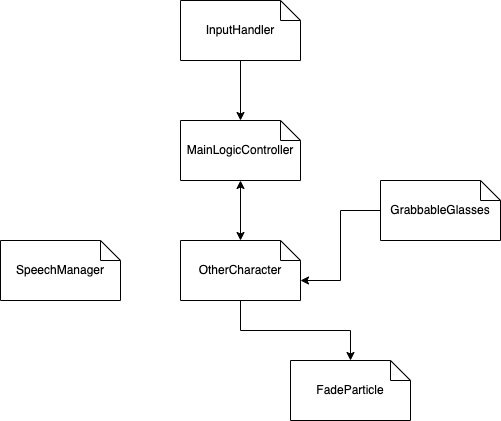
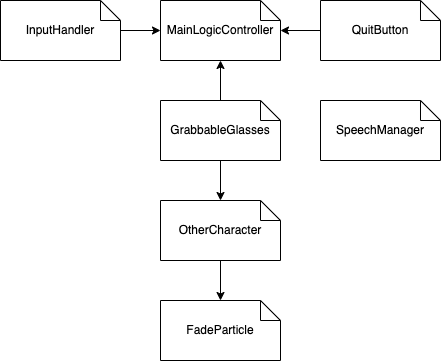
more ink

diff --git a/public/portfolio/unity-ink-painting-effect-rendering-vr-scene/index.html b/public/portfolio/unity-ink-painting-effect-rendering-vr-scene/index.html
@@ -190,13 +190,13 @@ By night or day.
 <br>
 The things which I have seen I now can see no more.</p>
 </blockquote>
-<p><em><a href="https://skfb.ly/6RnWL">&ldquo;The Creation of Adam&rdquo;</a> by Loïc Norgeot is licensed under <a href="http://creativecommons.org/licenses/by/4.0/">Creative Commons Attribution</a>.</em></p>
 <p>
 <div style="position: relative; padding-bottom: 56.25%; height: 0; overflow: hidden;">
   <iframe src="https://www.youtube.com/embed/NW-UrDA5nq0" style="position: absolute; top: 0; left: 0; width: 100%; height: 100%; border:0;" allowfullscreen title="Unity ink painting effect rendering VR scene"></iframe>
 </div>
 
 <br></p>
+<p><em><a href="https://skfb.ly/6RnWL">&ldquo;The Creation of Adam&rdquo;</a> by Loïc Norgeot is licensed under <a href="http://creativecommons.org/licenses/by/4.0/">Creative Commons Attribution</a>.</em></p>
 <p>You can find the playable build shown in the video <a href="https://drive.google.com/drive/folders/1O-hnS8qAkfEFtwk0FRUm3RVPHHwUvIW8?usp=sharing">here</a>. The game runs on Oculus Rift S, so if you don&rsquo;t have the VR headset I&rsquo;m afraid you won&rsquo;t get the full experience. You can still use the spacebar to switch between scenes, which is a backdoor I left, but other interactions (moving, teleporting, picking up props, dialogue, etc.) are not available.</p>
 <p>Chinese brush painting rendering is the part where I spend the most effort. For the brush painting-only version, please check out my other video:</p>
 <p>
@@ -205,7 +205,7 @@ The things which I have seen I now can see no more.</p>
 </div>
 
 <br></p>
-<p>Using Unity&rsquo;s built-in pipeline, I implemented a small project in the style of Chinese brush painting.</p>
+<p>Using Unity&rsquo;s built-in pipeline, I implemented this project in the style of Chinese brush painting.</p>
 <p>I first analyze the aesthetic characteristics of landscape and figure paintings, and then proposed two methods for Chinese brush painting effect, one for characters and one for mountains and rocks. I use Oculus Rift S as a development device and developed this project based on the new XR plug-in architecture provided by Unity 2019.3.0, and finally use Oculus Debug Tool and Unity UPR (Unity Performance Report) for performance testing.</p>
 <p><a href="/img/portfolio/Unity-ink-painting-effect-rendering-VR-scene-1.png"><img src="/img/portfolio/Unity-ink-painting-effect-rendering-VR-scene-1.png" alt="Snapshot 1 of Unity ink painting effect rendering VR scene"></a></p>
 <p><a href="/img/portfolio/Unity-ink-painting-effect-rendering-VR-scene-2.png"><img src="/img/portfolio/Unity-ink-painting-effect-rendering-VR-scene-2.png" alt="Snapshot 2 of Unity ink painting effect rendering VR scene"></a></p>
@@ -228,6 +228,11 @@ The things which I have seen I now can see no more.</p>
 </ol>
 </li>
 <li><a href="#Unity-VR">Unity VR Integration</a></li>
+<li><a href="#Gameplay">Gameplay</a>
+<ol>
+<li><a href="#Scripts">Scripts  Architecture Overview</a></li>
+</ol>
+</li>
 <li><a href="#UI">UI Design</a></li>
 <li><a href="#Transition">Scene Transition Design</a></li>
 </ol>
@@ -508,19 +513,66 @@ At the same time, because of the above advantages, the rendering results look sm
 
 <br></p>
 <p>During the bridging process, to bridge the display and input of Oculus and VRTK, several packages are required, including <strong>Zinnia.Unity</strong>, <strong>Malimbe</strong>, and <strong>VRTK Prefabs</strong>. They can be easily imported and managed using Unity&rsquo;s package manager.</p>
+<p>All input actions such as grabbing are handled by the VRTK package without having to worry about hardware implementation. The prefab used is &ldquo;<strong>Interactable.Primary_Grab.Secondary_Swap</strong>&rdquo; with the primary script being <strong>Interactable Facade.cs</strong>.</p>
+<figure><img src="/img/portfolio/Unity-ink-facade.png"
+         alt="The grabbable object can be placed as a child object under the prefab key.Interactable.Primary_Grab.Secondary_Swap." width="600px"/><figcaption>
+            <p>The grabbable object can be placed as a child object under the prefab <strong>key.Interactable.Primary_Grab.Secondary_Swap</strong>.</p>
+        </figcaption>
+</figure>
+
+<figure><img src="/img/portfolio/Unity-ink-facade1.png"
+         alt="Get the grab action by adding listeners in the Grab Events." width="250px"/><figcaption>
+            <p>Get the grab action by adding listeners in the <strong>Grab Events</strong>.</p>
+        </figcaption>
+</figure>
+
+<h2 id="Gameplay">Gameplay</h2>
+<p>Now that the hardware inputs and outputs are in place, the next step is the writing of the gameplay section.</p>
+<h3 id="Scripts">Scripts  Architecture Overview</h3>
+<p>The architecture designed for this project is shown in the figure below:</p>
+<p><figure><img src="/img/portfolio/Unity-ink-structure-of-scripts.png"
+         alt="architecture of scripts" width="350px"/>
+</figure>
+
+<br></p>
+<p>The functions of each script are as follows:</p>
+<ol>
+<li>
+<p><em><strong>InputHandler.cs</strong></em>: Determines the action of taking off the VR glasses, which triggers the transition from the first scene to the second scene.</p>
+</li>
+<li>
+<p><em><strong>MainLogicController.cs</strong></em>: Handles all scene transitions.</p>
+</li>
+<li>
+<p><em><strong>OtherCharacter</strong></em>: Manages the Non-player characters, especially the burning effect (using a shader parameter).</p>
+</li>
+<li>
+<p><em><strong>GrabbableGlasses</strong></em>: Handles the action of grabbing the NPC&rsquo;s glasses in the second scene, triggers the transition from the second scene to the third scene, and manages the action of dropping the glasses to the ground when the character burns out.</p>
+</li>
+<li>
+<p><em><strong>FadeParticle.cs</strong></em>: Manages the particle animation during NPC burning.</p>
+</li>
+<li>
+<p><em><strong>SpeechManager</strong></em>: Manages dialogues between the player and NPC.</p>
+</li>
+<li>
+<p><em><strong>QuitButton</strong></em>: Handles the transition from the third scene to the credits scene and quitting the game.</p>
+</li>
+</ol>
+<p>Among them, 1 and 3, 4, 5 will be discussed in the <a href="#Gameplay">Gameplay</a> section; 2 will be discussed in the <a href="#Transition">Scene Transition Design</a> section; and 6 will be discussed in the <a href="#UI">Dialogue and UI Design</a> section.</p>
 <h2 id="UI">UI Design</h2>
 <p>In VR scenes, two display modes were used for UI.</p>
 <ol>
-<li>For my part in the dialog, the canvas is fixed directly on the CenterEyeAnchor as a screen space UI (note that the render mode I choose is still world space, but it will look like screen space as it follows the movement of tracking);</li>
+<li>For my part in the dialogue, the canvas is fixed directly on the CenterEyeAnchor as a screen space UI (note that the render mode I choose is still world space, but it will look like screen space as it follows the movement of tracking);</li>
 </ol>
 <figure><img src="/img/portfolio/Unity-ink-myUI.png"
-         alt="There are two Texts here, one for the dialog and one for displaying Credits at the end of the process." width="600px"/><figcaption>
-            <p>There are two Texts here, one for the dialog and one for displaying Credits at the end of the process.</p>
+         alt="There are two Texts here, one for the dialogue and one for displaying Credits at the end of the process." width="600px"/><figcaption>
+            <p>There are two Texts here, one for the dialogue and one for displaying Credits at the end of the process.</p>
         </figcaption>
 </figure>
 
 <ol start="2">
-<li>For others&rsquo; part in the dialog, the canvas is displayed above their respective heads as a world space UI.</li>
+<li>For others&rsquo; part in the dialogue, the canvas is displayed above their respective heads as a world space UI.</li>
 </ol>
 <p><figure><img src="/img/portfolio/Unity-ink-othersUI.png" width="600px"/>
 </figure>

diff --git a/content/portfolio/Unity-ink-painting-effect-rendering-VR-scene.md b/content/portfolio/Unity-ink-painting-effect-rendering-VR-scene.md
@@ -64,10 +64,10 @@ math = true
 \
 > The things which I have seen I now can see no more.
 
-*["The Creation of Adam"](https://skfb.ly/6RnWL) by Loïc Norgeot is licensed under [Creative Commons Attribution](http://creativecommons.org/licenses/by/4.0/).*
-
 {{< youtube id="NW-UrDA5nq0" title="Unity ink painting effect rendering VR scene" >}}
 <br>
+
+*["The Creation of Adam"](https://skfb.ly/6RnWL) by Loïc Norgeot is licensed under [Creative Commons Attribution](http://creativecommons.org/licenses/by/4.0/).*
 
 You can find the playable build shown in the video [here](https://drive.google.com/drive/folders/1O-hnS8qAkfEFtwk0FRUm3RVPHHwUvIW8?usp=sharing). The game runs on Oculus Rift S, so if you don't have the VR headset I'm afraid you won't get the full experience. You can still use the spacebar to switch between scenes, which is a backdoor I left, but other interactions (moving, teleporting, picking up props, dialogue, etc.) are not available.
 
@@ -76,7 +76,7 @@ Chinese brush painting rendering is the part where I spend the most effort. For 
 {{< youtube id="YdPf6S08NT0" title="Unity ink painting effect rendering VR scene" >}}
 <br>
 
-Using Unity's built-in pipeline, I implemented a small project in the style of Chinese brush painting.
+Using Unity's built-in pipeline, I implemented this project in the style of Chinese brush painting.
 
 I first analyze the aesthetic characteristics of landscape and figure paintings, and then proposed two methods for Chinese brush painting effect, one for characters and one for mountains and rocks. I use Oculus Rift S as a development device and developed this project based on the new XR plug-in architecture provided by Unity 2019.3.0, and finally use Oculus Debug Tool and Unity UPR (Unity Performance Report) for performance testing.
 
@@ -104,8 +104,10 @@ This picture shows what the models look like originally in Unity Standard shader
         4. [Stroke texture (feathering and spreading)](#Stroke-texture)
     3. [Chinese Brush Painting Character Rendering Scheme](#Chinese-Brush-Painting-Character-Rendering-Scheme)
 2. [Unity VR Integration](#Unity-VR)
-3. [UI Design](#UI)
-4. [Scene Transition Design](#Transition)
+3. [Gameplay](#Gameplay)
+    1. [Scripts  Architecture Overview](#Scripts)
+4. [UI Design](#UI)
+5. [Scene Transition Design](#Transition)
 ## Chinese Brush Painting Rendering {#Chinese-Brush-Painting-Rendering}
 ### Aesthetic Characteristics of Chinese Brush Painting {#Aesthetic-Characteristics-of-Chinese-Brush-Painting}
 For **brush painting mountains and stones**, there are two characteristics that need to be reflected:
@@ -398,15 +400,53 @@ Since XRI in Unity 2019.3 is still in preview version (1.0.0-pre.2) and has not 
 
 During the bridging process, to bridge the display and input of Oculus and VRTK, several packages are required, including **Zinnia.Unity**, **Malimbe**, and **VRTK Prefabs**. They can be easily imported and managed using Unity's package manager.
 
+All input actions such as grabbing are handled by the VRTK package without having to worry about hardware implementation. The prefab used is "**Interactable.Primary_Grab.Secondary_Swap**" with the primary script being **Interactable Facade.cs**.
+
+{{< figure src="/img/portfolio/Unity-ink-facade.png" caption="The grabbable object can be placed as a child object under the prefab **key.Interactable.Primary_Grab.Secondary_Swap**." width="600px" >}}
+
+{{< figure src="/img/portfolio/Unity-ink-facade1.png" caption="Get the grab action by adding listeners in the **Grab Events**." width="250px" >}}
+
+## Gameplay {#Gameplay}
+
+Now that the hardware inputs and outputs are in place, the next step is the writing of the gameplay section.
+
+### Scripts  Architecture Overview {#Scripts}
+
+The architecture designed for this project is shown in the figure below:
+
+{{< figure src="/img/portfolio/Unity-ink-structure-of-scripts.png" alt="architecture of scripts" width="350px" >}}
+<br>
+
+The functions of each script are as follows:
+
+1. ***InputHandler.cs***: Determines the action of taking off the VR glasses, which triggers the transition from the first scene to the second scene.
+
+2. ***MainLogicController.cs***: Handles all scene transitions.
+
+3. ***OtherCharacter***: Manages the Non-player characters, especially the burning effect (using a shader parameter).
+
+4. ***GrabbableGlasses***: Handles the action of grabbing the NPC's glasses in the second scene, triggers the transition from the second scene to the third scene, and manages the action of dropping the glasses to the ground when the character burns out.
+
+5. ***FadeParticle.cs***: Manages the particle animation during NPC burning.
+
+6. ***SpeechManager***: Manages dialogues between the player and NPC.
+
+7. ***QuitButton***: Handles the transition from the third scene to the credits scene and quitting the game.
+
+Among them, 1 and 3, 4, 5 will be discussed in the [Gameplay](#Gameplay) section; 2 will be discussed in the [Scene Transition Design](#Transition) section; and 6 will be discussed in the [Dialogue and UI Design](#UI) section.
+
+
+
+
 ## UI Design {#UI}
 
 In VR scenes, two display modes were used for UI.
 
-1. For my part in the dialog, the canvas is fixed directly on the CenterEyeAnchor as a screen space UI (note that the render mode I choose is still world space, but it will look like screen space as it follows the movement of tracking);
+1. For my part in the dialogue, the canvas is fixed directly on the CenterEyeAnchor as a screen space UI (note that the render mode I choose is still world space, but it will look like screen space as it follows the movement of tracking);
 
-{{< figure src="/img/portfolio/Unity-ink-myUI.png" caption="There are two Texts here, one for the dialog and one for displaying Credits at the end of the process." width="600px" >}}
+{{< figure src="/img/portfolio/Unity-ink-myUI.png" caption="There are two Texts here, one for the dialogue and one for displaying Credits at the end of the process." width="600px" >}}
 
-2. For others' part in the dialog, the canvas is displayed above their respective heads as a world space UI.
+2. For others' part in the dialogue, the canvas is displayed above their respective heads as a world space UI.
 
 {{< figure src="/img/portfolio/Unity-ink-othersUI.png" width="600px" >}}
 <br>
